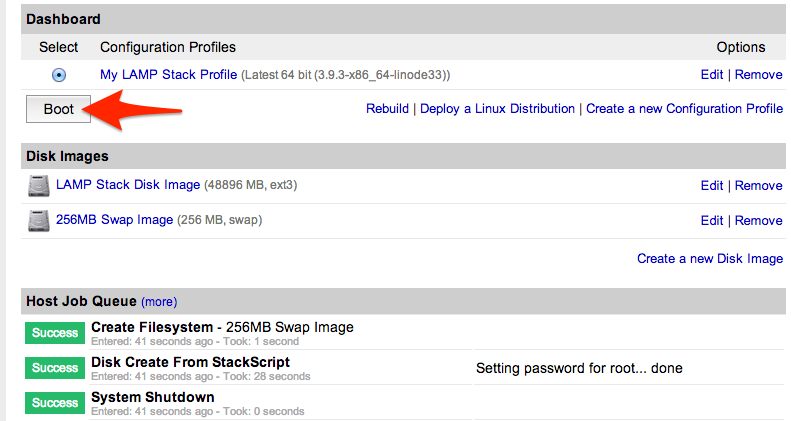
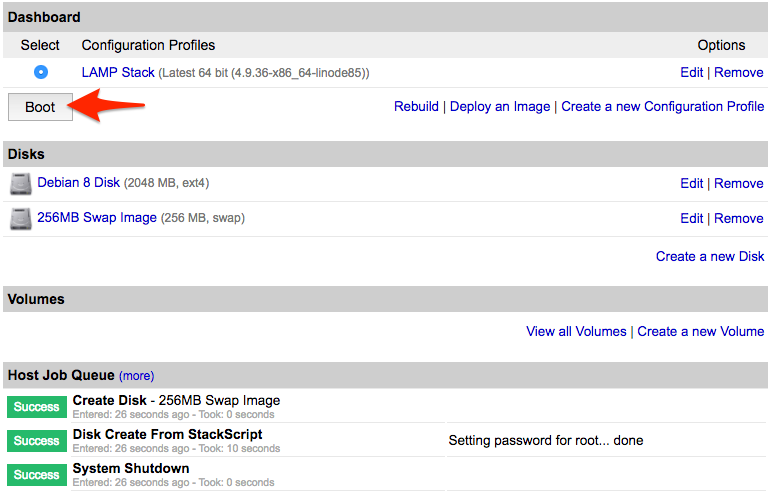
migrate from shared updated screenshot and create disk language

diff --git a/docs/platform/migrate-to-linode/migrate-from-shared-hosting-to-linode.md b/docs/platform/migrate-to-linode/migrate-from-shared-hosting-to-linode.md
@@ -113,9 +113,9 @@ The next step is to build the software environment needed for your site to funct
 
 4.  Click the **Deploy** button. You will be redirected to your Linode's **Dashboard**. Watch the **Host Job Queue**. You should see a number of jobs in progress.
 
-    [![Wait for the jobs to finish, then boot the Linode.](/docs/assets/1437-stackscripts_lamp_boot_sm.png)](/docs/assets/1421-stackscripts_lamp_boot.png)
+    [![Wait for the jobs to finish, then boot the Linode.](/docs/assets/1421-stackscripts_lamp_boot.png)](/docs/assets/1421-stackscripts_lamp_boot.png)
 
-5.  When the **Create Filesystem** job is done, click the **Boot** button under your Linode.
+5.  When the **Create Disk** job is done, click the **Boot** button under your Linode.
 
 6.  To verify that LAMP installed correctly, check that a basic website framework has been added to your server. To do that, your IP address must be used, since your domain isn't pointing to Linode yet.
 
